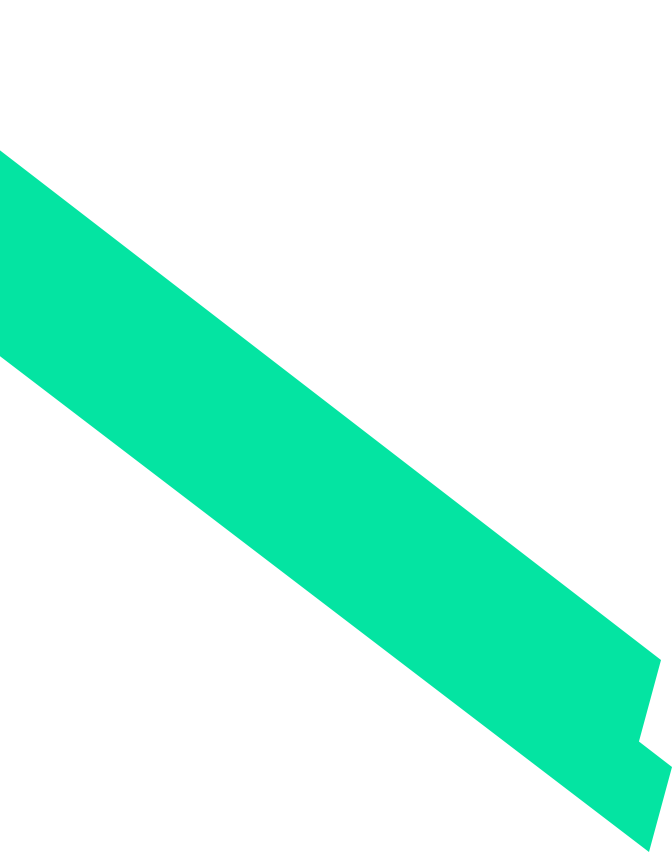
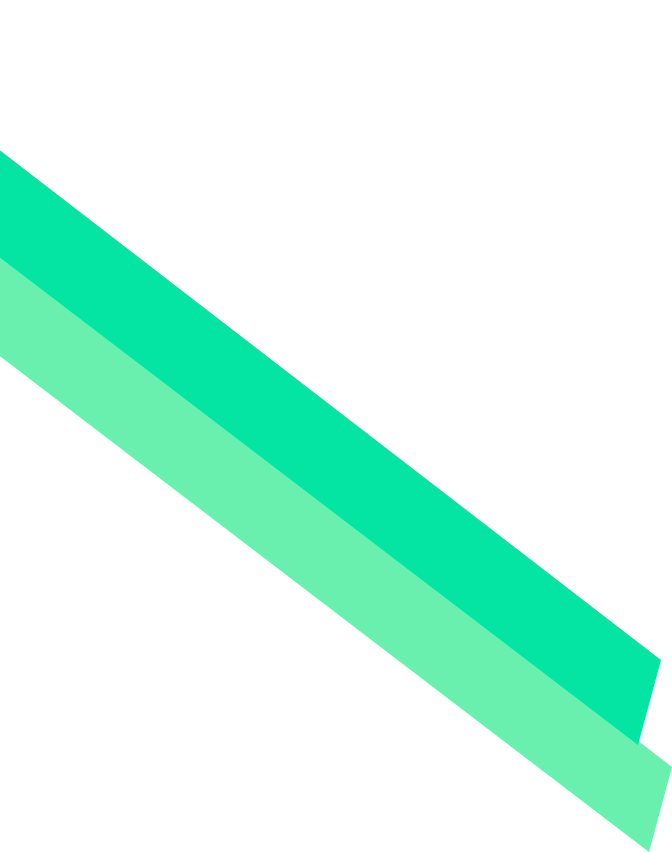
дальше проверка нужна..

Changed region(s): [[0.0, 0.3052, 1.0, 1.0]]

diff --git a/index.html b/index.html
@@ -9,31 +9,45 @@
     <link href="https://fonts.googleapis.com/css?family=Abel" rel="stylesheet">
   </head>
   <body>
-    <div class="container clearfix">
-      <header class="main-header">
-        <a href="#" class="logo">indipixel</a>
-        <a href="#" class="header-contact">CONTACT US</a>
-      </header>
-      <div class="main-text">
-        <h2 class="main-title">
-          We work on both<br>design and development
-        </h2>
-        <p>We belive beauty inspires emotions and increase happiness. Our products are well-designed and amplified with better usability. We are specialized in Ios, android, wordpress and drupal</p>
-        <a class="contact-button" href="#">CONTACT US</a>
+    <div class="wrapper">
+      <div class="container clearfix">
+        <header class="main-header clearfix">
+          <a href="#" class="logo">indipixel</a>
+          <a href="#" class="header-contact">CONTACT US</a>
+        </header>
+        <div class="main-text">
+          <h2 class="main-title">
+            We work on both<br>design and development
+          </h2>
+          <p>We belive beauty inspires emotions and increase happiness. Our products are well-designed and amplified with better usability. We are specialized in Ios, android, wordpress and drupal</p>
+          <a class="contact-button" href="#">CONTACT US</a>
+        </div>
       </div>
-    </div>
-    <div class="info-panel clearfix">
-    <form class="info-form">
-      <h4 class="form-title">
-        Lets Talk
-      </h4>
-      <input class="firstname" type="text" value="First Name">
-      <input class="lastname" type="text" value="Last Name">
-      <input class="email" type="text" value="Email Address">
-      <input class="desing" type="text" value="App Desing">
-      <input class="box" type="text" value="Type your query here">
-      <a class="info-send" href="#">SEND</a>
-    </form>
+      <div class="info-panel clearfix">
+      <form class="info-form">
+        <h4 class="form-title">
+          Lets Talk
+        </h4>
+        <input class="firstname" type="text" value="First Name">
+        <input class="lastname" type="text" value="Last Name">
+        <input class="email-form" type="text" value="Email Address">
+        <input class="desing" type="text" value="App Desing">
+        <input class="box" type="text" value="Type your query here">
+        <a class="info-send" href="#">SEND</a>
+      </form>
+      </div>
+      <footer class="footer">
+        <div class="copyrate">
+          <p>
+            © 2015 indipixel worldwide
+          </p>
+        </div>
+        <div class="email">
+          <p>
+            contact@yourmail.com
+          </p>
+        </div>
+      </footer>
     </div>
   </body>
 </html>

diff --git a/css/style.css b/css/style.css
@@ -13,19 +13,15 @@ content: "";
 clear: both;
 }
 
+.wrapper {
+width: 1366px;
+margin: 0 auto;
+}
+
 .container {
 background: url("../img/background.png") no-repeat;
 background-size: 100%;
 height: 685px;
-}
-
-.container:after {
-display: block;
-content: "";
-height: 855px;
-width: 675px;
-background: url("../img/greenline.png") no-repeat;
-background-position: -145px -262px;
 }
 
 .main-header {
@@ -53,7 +49,7 @@ padding-left: 60px;
 .header-contact {
 float: right;
 font-family: 'Abel', sans-serif;
-width: 110px;
+width: 90px;
 font-size: 18px;
 color: #f9fbe7;
 text-decoration: none;
@@ -101,6 +97,8 @@ color: #ff8a80;
 font-size: 20px;
 font-weight: 200;
 padding-left: 22px;
+margin-top: 30px;
+margin-bottom: 15px;
 }
 
 .info-panel {
@@ -109,6 +107,7 @@ width: 100%;
 }
 
 .info-form {
+position: relative;
 float: right;
 width: 522px;
 height: 360px;
@@ -131,15 +130,14 @@ margin-bottom: 17px;
 margin-right: 7px;
 }
 
-.email {
+.email-form {
 margin-right: 7px;
 }
 
 .box {
 float: left;
 width: 455px;
-height: 100px;
-padding-top: 20px;
+height: 55px;
 }
 
 .info-send {
@@ -155,4 +153,69 @@ border-radius: 5px;
 padding-top: 12px;
 padding-left: 32px;
 padding-bottom: 10px;
+}
+
+.info-form::before {
+position: absolute;
+display: block;
+content: "";
+height: 816px;
+width: 388px;
+background: url("../img/phone.jpg") no-repeat;
+bottom: 63px;
+left: -500px;
+z-index: 2;
+}
+
+.info-form::after {
+position: absolute;
+display: block;
+content: "";
+height: 855px;
+width: 675px;
+background: url("../img/greenline.png") no-repeat;
+bottom: 165px;
+right: 553px;
+z-index: 1;
+}
+
+.desing {
+background: url("../img/drop.png") no-repeat;
+background-position: 200px 20px;
+}
+
+.footer {
+width: 100%;
+min-height: 100px;
+padding: 0;
+margin: 0;
+background-color: #fefcf2;
+}
+
+.copyrate {
+float: left;
+color: #636363;
+padding-top: 25px;
+padding-bottom: 28px;
+padding-left: 200px;
+}
+
+.email {
+position: relative;
+float: right;
+color: #636363;
+padding-top: 25px;
+padding-bottom: 28px;
+padding-right: 430px;
+}
+
+.email::before {
+position: absolute;
+display: block;
+content: "";
+background: url("../img/mail.png") no-repeat;
+height: 35px;
+width: 35px;
+bottom: 40px;
+right: 650px;
 }
